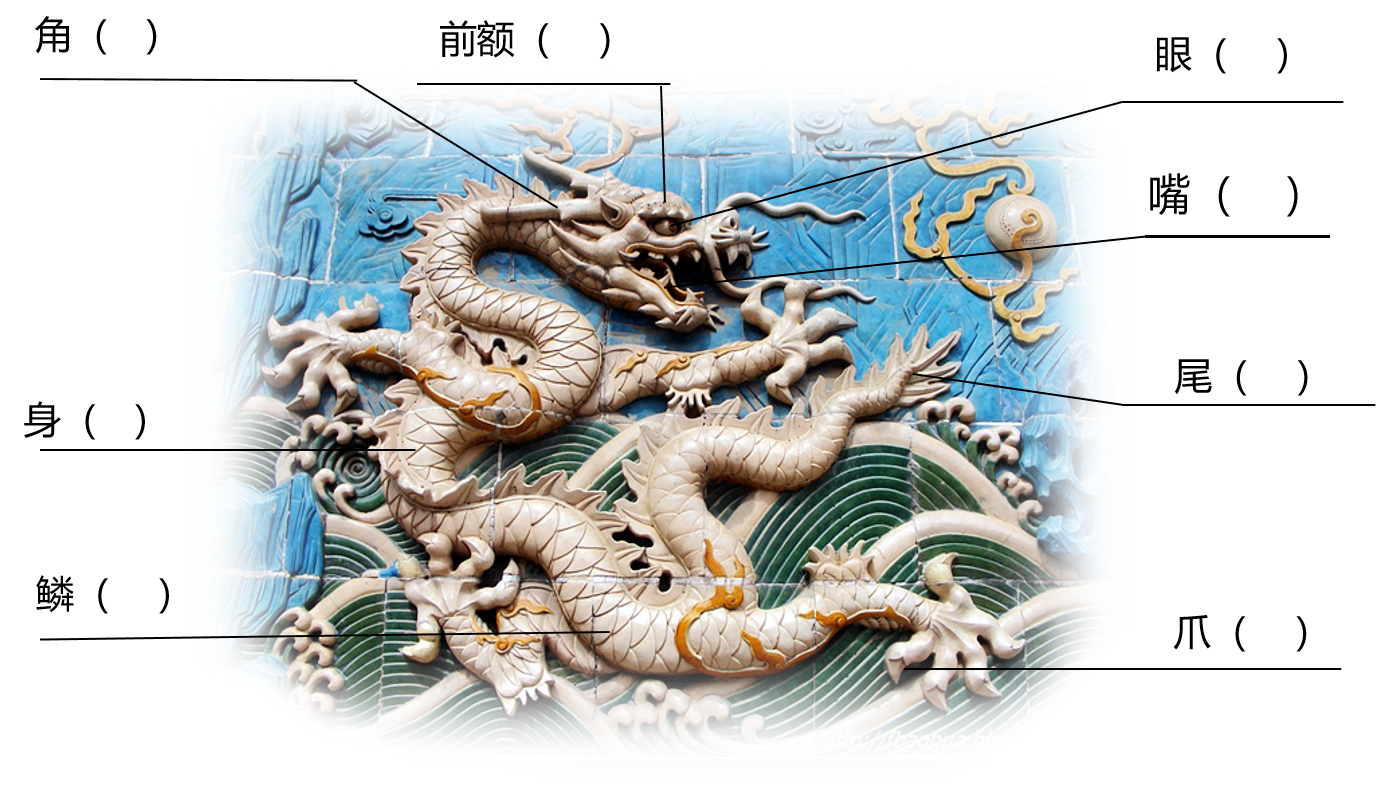
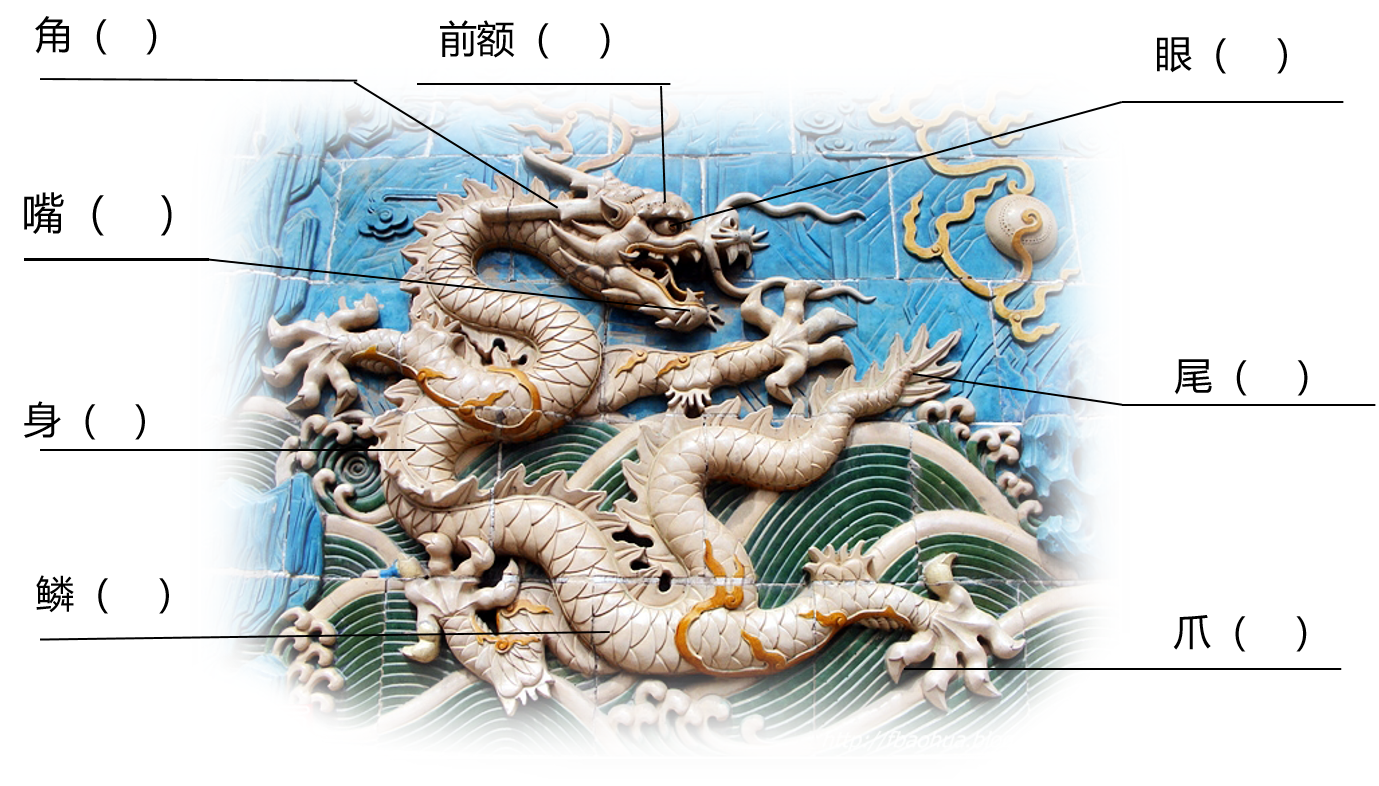
修改

diff --git a/index.html b/index.html
@@ -643,7 +643,7 @@
         <div class="dragon-hotspot" data-part="body" style="position: absolute; top: 43%; left: 7%; width: 100px; height: 100px; cursor: pointer; background: transparent; border: none; display: flex; align-items: center; justify-content: center;"></div>
         
         <!-- 嘴 - 鳄鱼 -->
-        <div class="dragon-hotspot" data-part="mouth" style="position: absolute; top: 13%; left: 85%; width: 100px; height: 100px; cursor: pointer; background: transparent; border: none; display: flex; align-items: center; justify-content: center;"></div>
+        <div class="dragon-hotspot" data-part="mouth" style="position: absolute; top: 20%; left: 7%; width: 100px; height: 100px; cursor: pointer; background: transparent; border: none; display: flex; align-items: center; justify-content: center;"></div>
     </div>
     
 
@@ -765,13 +765,13 @@
                     "pitch": -25,      // 垂直角度
                     "yaw": 20,       // 水平角度
                     "type": "scene", // 点击切换场景
-                    "text": "进入龙国博物馆",
+                    "text": "进入龙档案馆",
                     "sceneId": "museum"
                 }
             ]
         },
         "museum": {
-            "title": "龙博物馆",
+            "title": "龙档案馆",
             "panorama": "images/2.museum/场景背景参考1.png",
             "initialViewParameters": {
                 "pitch": -25,
@@ -805,7 +805,7 @@
                     "pitch": 0,
                     "yaw": 0,
                     "type": "scene",
-                    "text": "返回龙博物馆",
+                    "text": "返回龙档案馆",
                     "sceneId": "museum"
                 }
             ]
